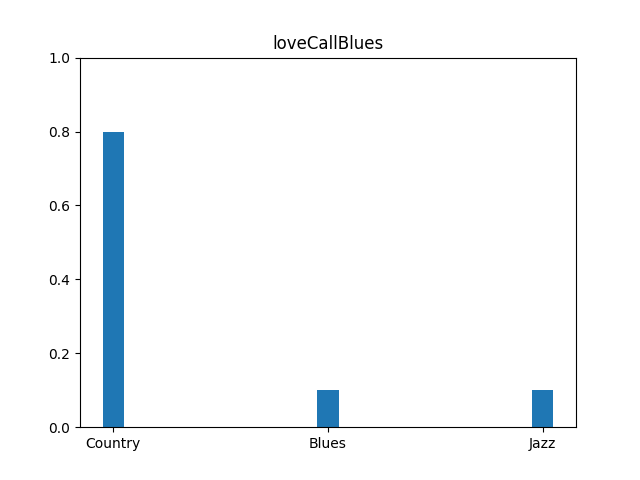
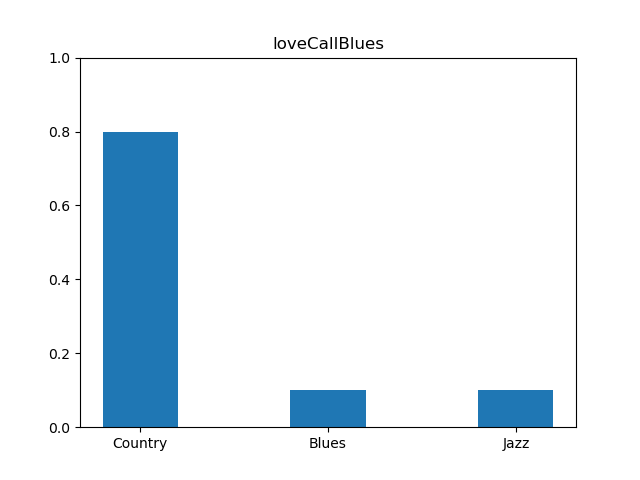
added genre prediction image handling

diff --git a/GUI/gui.py b/GUI/gui.py
@@ -197,14 +197,23 @@ class App(customtkinter.CTk):
         self.ac_songs_combobox = customtkinter.CTkComboBox(master=self.tabview.tab("Audio classification"),
                                                            state="readonly", values=self.audios_names_list,
                                                            font=("Helvetica", 16))
-        self.ac_songs_combobox.grid(row=2, column=0, padx=10, pady=(10,0))
+        self.ac_songs_combobox.grid(row=2, column=0, padx=10, pady=(10, 0))
         if self.audios_paths_list:
             self.ac_songs_combobox.set(self.audios_names_list[0])
-        # GENRE PREDICTION BUTTON
+        # GENRE PREDICTION BUTTON AND IMAGE
         self.ac_predict_button = customtkinter.CTkButton(master=self.tabview.tab("Audio classification"),
                                                          text="Create genre predictions", command=self.predict_genre,
                                                          font=("Helvetica", 16))
         self.ac_predict_button.grid(row=3, column=0, padx=10, pady=15)
+        self.ac_prediction_image = customtkinter.CTkLabel(master=self.tabview.tab("Audio classification"),
+                                                          image=None, text="")
+        self.ac_prediction_image.grid(row=1, column=1, rowspan=3, padx=(0, 0), pady=(20, 0), sticky="n")
+        audios_dir = os.path.abspath(join(os.getcwd(), '..', Constants.INPUT_AUDIO))
+        selected_song = self.ac_songs_combobox.get()
+        selected_image = join(audios_dir, "genre_predictions", selected_song) + ".png"
+        if os.path.exists(selected_image):
+            ac_genres_image = customtkinter.CTkImage(dark_image=Image.open(selected_image), size=(256, 192))
+            self.ac_prediction_image.configure(image=ac_genres_image)
 
     def load_audios(self, new_dir_path):
         for root, subdirs, files in os.walk(new_dir_path):
@@ -263,7 +272,8 @@ class App(customtkinter.CTk):
                 print("effnet")
                 general.audio_to_spectrograms(audios_dir, "EffNet")
                 efficientnet_model.testefficientnetmodel(join(audios_dir, "effnet_spec"),
-                                                         os.path.abspath(join(os.getcwd(), '..', Constants.EFFICIENTNET_PRETRAINED_PATH)))
+                                                         os.path.abspath(join(os.getcwd(), '..',
+                                                                              Constants.EFFICIENTNET_PRETRAINED_PATH)))
             case "CNN (Spectrogram)":
                 from audio_classification import spectrogram_models
                 print("CNN IMAGE")
@@ -276,10 +286,12 @@ class App(customtkinter.CTk):
                 data = mfcc_models.preprocess_dir(audios_dir)
                 if model == "CNN":
                     values, percentages = mfcc_models.testaudiomodel(data,
-                                                        os.path.abspath(join(os.getcwd(), '..', Constants.CNN_PATH)))
+                                                                     os.path.abspath(
+                                                                         join(os.getcwd(), '..', Constants.CNN_PATH)))
                 else:
                     values, percentages = mfcc_models.testaudiomodel(data,
-                                                        os.path.abspath(join(os.getcwd(), '..', Constants.LSMT_PATH)))
+                                                                     os.path.abspath(
+                                                                         join(os.getcwd(), '..', Constants.LSMT_PATH)))
             case _:
                 print("Unknown error, change model")
         print(values)
@@ -292,10 +304,15 @@ class App(customtkinter.CTk):
             print(filename)
             plt.title(filename)
             plt.ylim(0, 1)
-            plt.bar(x, y)
+            plt.bar(x, y, width=0.4, align='center')
+            if len(values[i]) == 1:
+                plt.xlim(-1, 1)
             plt.savefig(fname=os.path.join(audios_dir, "genre_predictions", filename) + ".png", format='png')
-
-        #plt.show()
+        selected_song = self.ac_songs_combobox.get()
+        selected_image = join(audios_dir, "genre_predictions", selected_song) + ".png"
+        ac_genres_image = customtkinter.CTkImage(dark_image=Image.open(selected_image), size=(256, 192))
+        self.ac_prediction_image.configure(image=ac_genres_image)
+        # plt.show()
 
     def handle_recording(self):
         if self.recording == 0:
